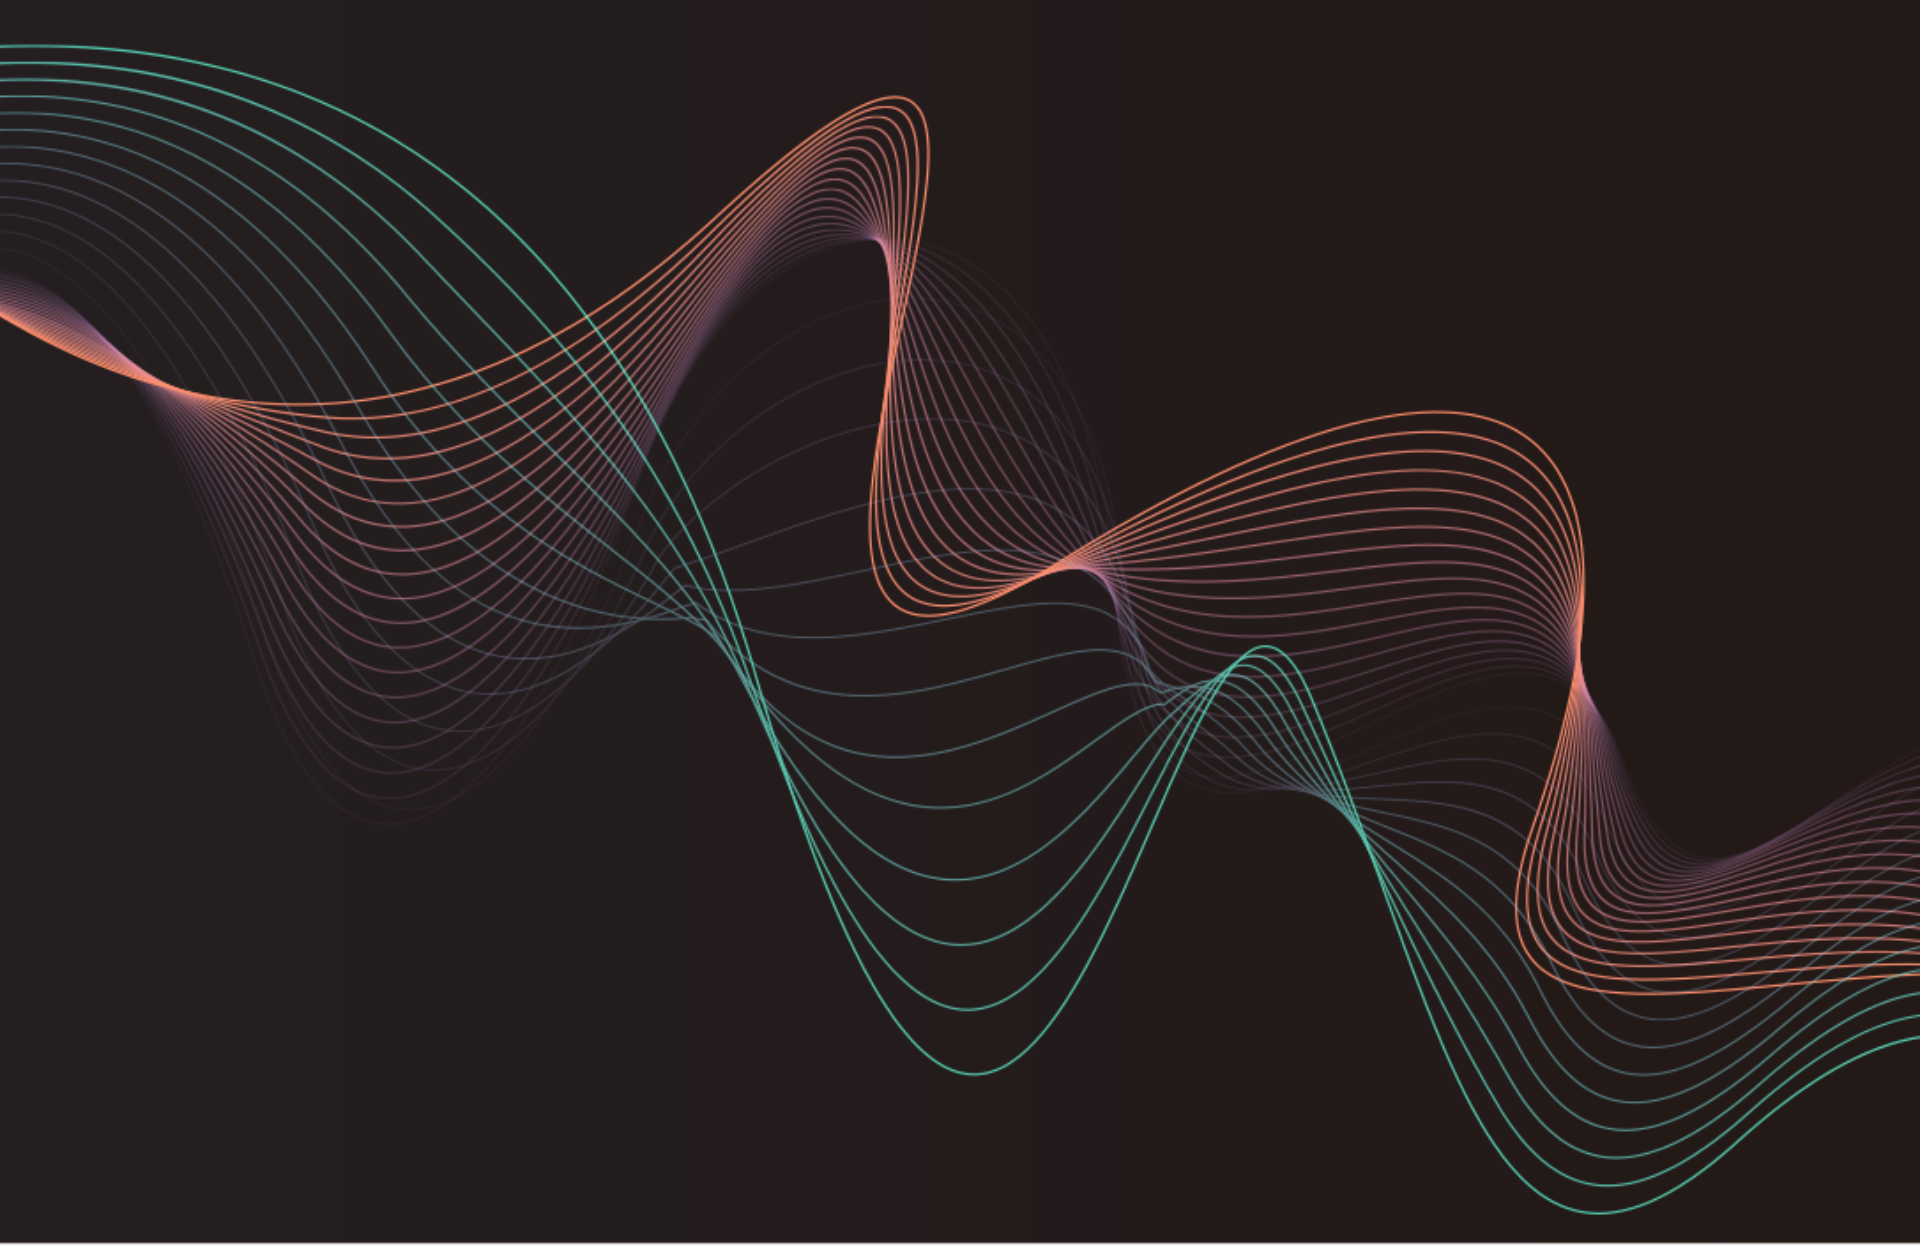
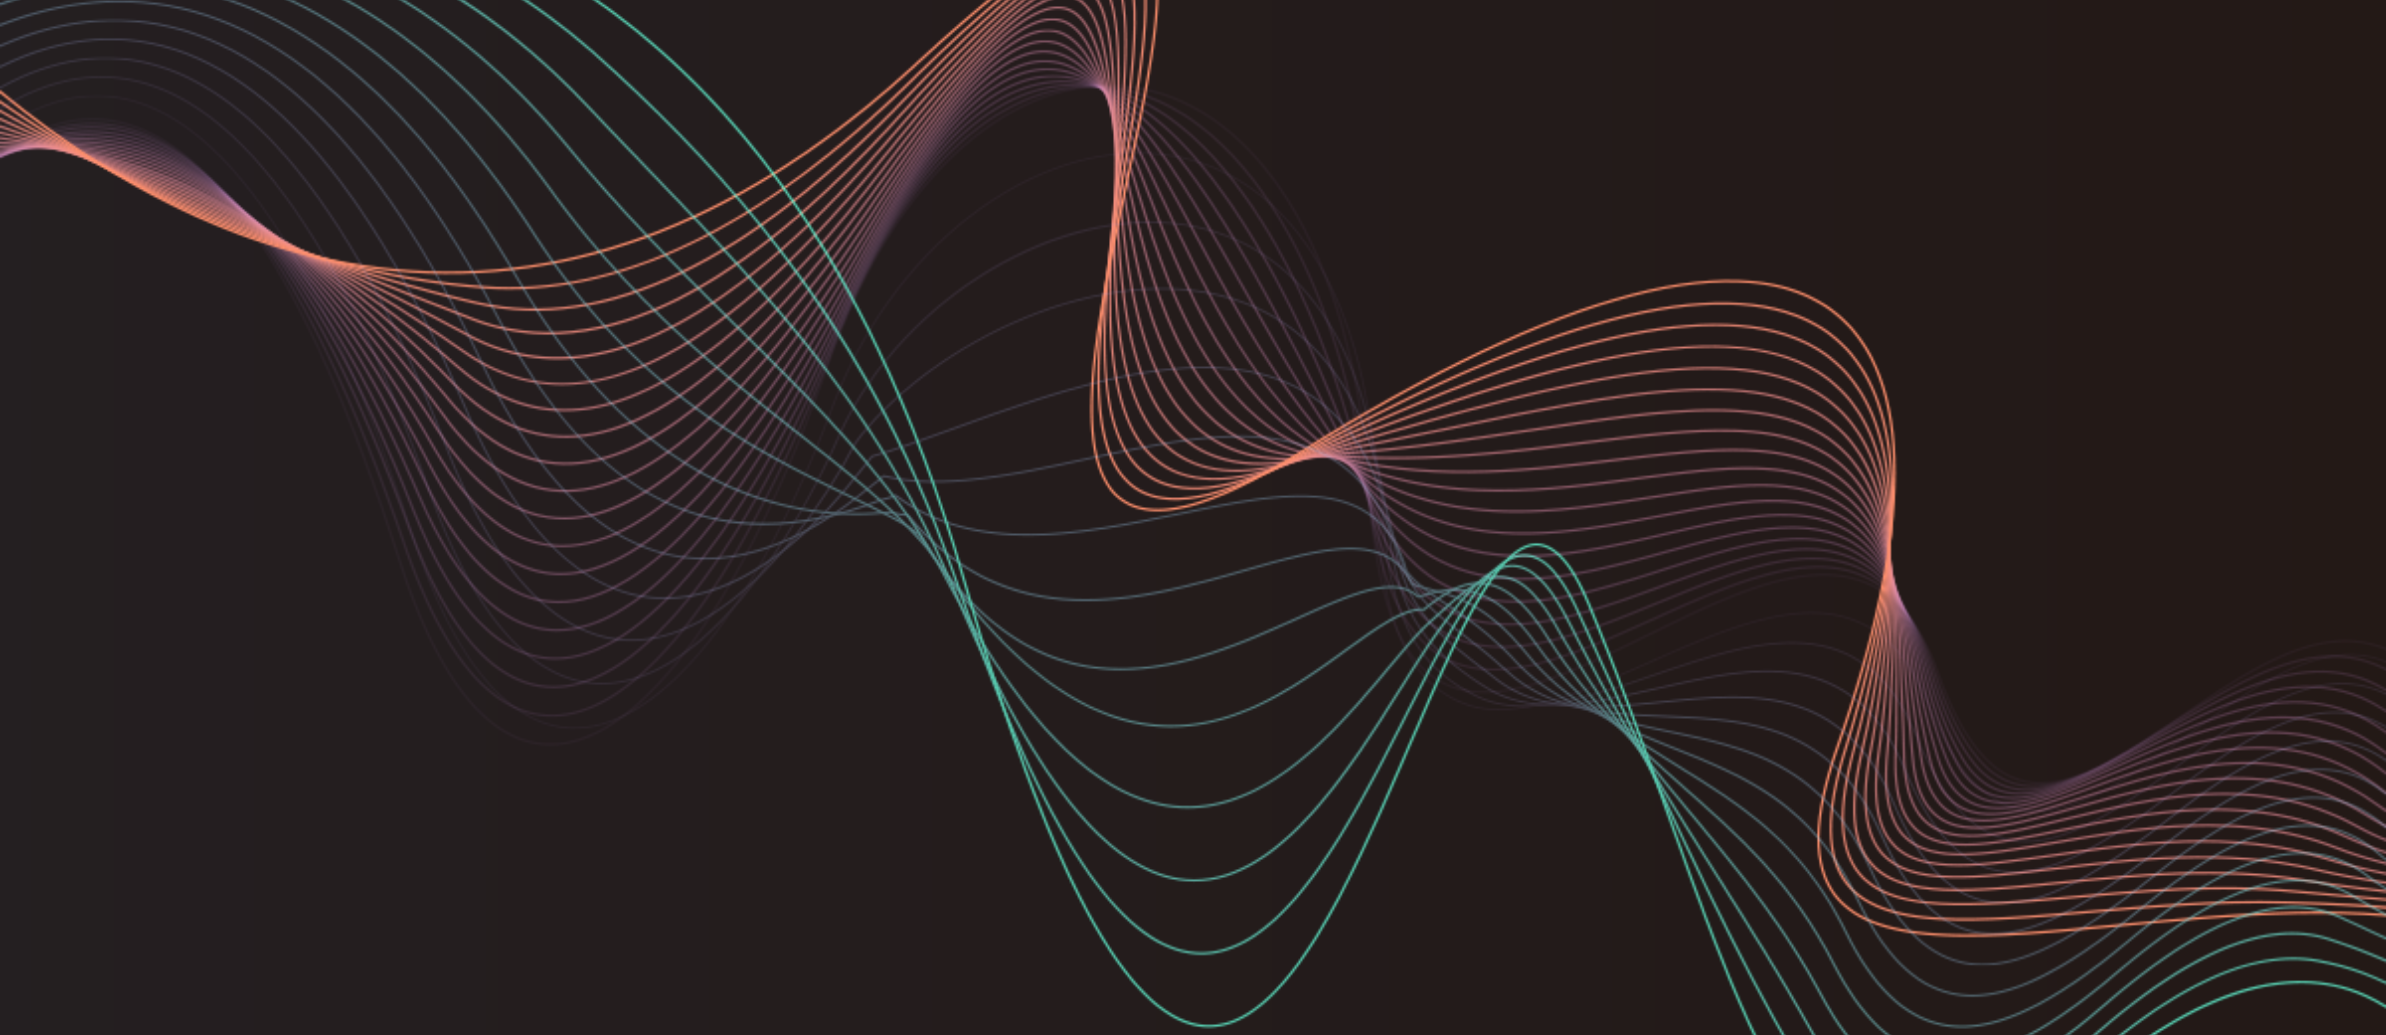
221124) eun 수정사항 반영

Changed region(s): [[0.0, 0.0, 1.0, 1.0], [0.4688, 0.8966, 0.5312, 0.9275]]

diff --git a/db_search_result.html b/db_search_result.html
@@ -87,29 +87,37 @@
                 <p class="s-title">• 기관소개</p>
                 <dl class="">
                   <dt>1. 사업개요</dt>
-                  <dd>
+                  <dd class="no-hipen">
                     장흥군버섯산업연구원은 버섯을 지역 핵심전략사업으로 육성하고 지역산업 혁신을 위하여 지식경제부
                     지자체연구소 육성사업을 통해 설립된 연구 재단입니다.
                   </dd>
+                </dl>
+                <dl>
                   <dt>2. 서비스</dt>
-                  <dd>- 국내 버섯산업을 미래 기능성 21세기 전략산업으로 육성</dd>
-                  <dd>- 국내외 버섯을 소재로 한 연구/개발의 중심축 역할 수행</dd>
-                  <dd>- 21세기의 생물공학 유전자 전쟁시대에 대비한 미래기술 확보</dd>
-                  <dd>- 지역전략산업 및 연고산업의 고부가가치화를 통한 지역 경제 활성화</dd>
-                  <dd>- 버섯산업을 고부가가치 산업으로 발전시키는 모델 제공</dd>
+                  <dd>국내 버섯산업을 미래 기능성 21세기 전략산업으로 육성</dd>
+                  <dd>국내외 버섯을 소재로 한 연구/개발의 중심축 역할 수행</dd>
+                  <dd>21세기의 생물공학 유전자 전쟁시대에 대비한 미래기술 확보</dd>
+                  <dd>지역전략산업 및 연고산업의 고부가가치화를 통한 지역 경제 활성화</dd>
+                  <dd>버섯산업을 고부가가치 산업으로 발전시키는 모델 제공</dd>
+                </dl>
+                <dl>
                   <dt>3. 인력양성</dt>
-                  <dd>- 농가 및 산업체 기술교육</dd>
-                  <dd>- 세미나 및 학술회의 개최</dd>
-                  <dd>- 산업체 인력의 재교육</dd>
+                  <dd>농가 및 산업체 기술교육</dd>
+                  <dd>세미나 및 학술회의 개최</dd>
+                  <dd>산업체 인력의 재교육</dd>
+                </dl>
+                <dl>
                   <dt>4. 실험분석</dt>
-                  <dd>- 진균류 버섯 재배 분석 <button class="btn small3 h30 wh btn-viewData">+ 자료보기</button></dd>
+                  <dd>진균류 버섯 재배 분석 <button class="btn small3 h30 wh btn-viewData">+ 자료보기</button></dd>
+                </dl>
+                <dl>
                   <dt>5. 산업분석</dt>
-                  <dd>
-                    - 진균류 버섯 시장 산업현황 <button class="btn small3 h30 wh btn-viewData">+ 자료보기</button>
-                  </dd>
+                  <dd>진균류 버섯 시장 산업현황 <button class="btn small3 h30 wh btn-viewData">+ 자료보기</button></dd>
+                </dl>
+                <dl>
                   <dt>6. 컨설팅</dt>
                   <dd>
-                    - 진균류 버섯 재배 방법 컨설팅 <button class="btn small3 h30 wh btn-viewData">+ 자료보기</button>
+                    진균류 버섯 재배 방법 컨설팅 <button class="btn small3 h30 wh btn-viewData">+ 자료보기</button>
                   </dd>
                 </dl>
               </div>
@@ -172,51 +180,33 @@
                 <p class="s-title">• R&D 현황</p>
                 <dl class="">
                   <dt>1. 시설 장비</dt>
-                  <dd>- 버섯 재배 및 연구에 사용되는 장비 50여개 보유</dd>
+                  <dd>버섯 재배 및 연구에 사용되는 장비 50여개 보유</dd>
+                </dl>
+                <dl>
                   <dt>2. 시설 장비활용 서비스</dt>
-                  <dd>- 과립제조기: 사료의 과립제조</dd>
-                  <dd>- 동결건조기(대형): 사료의 동결건조</dd>
-                  <dd>- 탁상용 원심 분리기: 원심분리</dd>
+                  <dd>과립제조기: 사료의 과립제조</dd>
+                  <dd>동결건조기(대형): 사료의 동결건조</dd>
+                  <dd>탁상용 원심 분리기: 원심분리</dd>
                 </dl>
               </div>
               <div class="introduce-text reference">
                 <p class="s-title">• 레퍼런스</p>
                 <dl class="">
                   <dt>1. R&D 실적</dt>
-                  <dd>
-                    - 표고버섯으로부터 비타민 D2를 습득하는 방법
-                    <button class="btn small3 h30 wh btn-viewData">+ 자료보기</button>
-                  </dd>
-                  <dd>
-                    - 석류 유산균 발효물을 이용한 건강식품 종성물과 제조방법
-                    <button class="btn small3 h30 wh btn-viewData">+ 자료보기</button>
-                  </dd>
+                  <dd>표고버섯으로부터 비타민 D2를 습득하는 방법 <a href="#n">[자료보기]</a></dd>
+                  <dd>석류 유산균 발효물을 이용한 건강식품 종성물과 제조방법 <a href="#n">[자료보기]</a></dd>
+                </dl>
+                <dl>
                   <dt>2. 연구성과</dt>
-                  <dd>
-                    - [MOU] 장흥지역 연구기관 업무협약
-                    <button class="btn small3 h30 wh btn-viewData">+ 자료보기</button>
-                  </dd>
-                  <dd>
-                    - [기술이전]-브라운힐 서비스표권, 상표권
-                    <button class="btn small3 h30 wh btn-viewData">+ 자료보기</button>
-                  </dd>
-                  <dd>
-                    - [수상]-제9회 아시아버섯학회 수상
-                    <button class="btn small3 h30 wh btn-viewData">+ 자료보기</button>
-                  </dd>
+                  <dd>[MOU] 장흥지역 연구기관 업무협약 <a href="#n">[자료보기]</a></dd>
+                  <dd>[기술이전]-브라운힐 서비스표권, 상표권 <a href="#n">[자료보기]</a></dd>
+                  <dd>[수상]-제9회 아시아버섯학회 수상 <a href="#n">[자료보기]</a></dd>
+                </dl>
+                <dl>
                   <dt>3. 기술이전</dt>
-                  <dd>
-                    - [MOU] 장흥지역 연구기관 업무협약
-                    <button class="btn small3 h30 wh btn-viewData">+ 자료보기</button>
-                  </dd>
-                  <dd>
-                    - [기술이전]-브라운힐 서비스표권, 상표권
-                    <button class="btn small3 h30 wh btn-viewData">+ 자료보기</button>
-                  </dd>
-                  <dd>
-                    - [수상]-제9회 아시아버섯학회 수상
-                    <button class="btn small3 h30 wh btn-viewData">+ 자료보기</button>
-                  </dd>
+                  <dd>[MOU] 장흥지역 연구기관 업무협약 <a href="#n">[자료보기]</a></dd>
+                  <dd>[기술이전]-브라운힐 서비스표권, 상표권 <a href="#n">[자료보기]</a></dd>
+                  <dd>[수상]-제9회 아시아버섯학회 수상 <a href="#n">[자료보기]</a></dd>
                 </dl>
               </div>
               <div class="introduce-text">
@@ -262,11 +252,10 @@
               </div>
               <div class="introduce-text">
                 <p class="s-title">
-                  • 주요 키워드 <span>키워드는 기관의 논문 또는 특허 등 검색 시 활용해 보세요.</span>
+                  • 주요 키워드 <span>( * 키워드는 기관의 논문 또는 특허 등 검색 시 활용해 보세요.)</span>
                 </p>
                 <dl class="">
-                  <dt></dt>
-                  <dd>- 버섯, 컨설팅, 논문, 공동연구, 시설지원</dd>
+                  <dd>버섯, 컨설팅, 논문, 공동연구, 시설지원</dd>
                 </dl>
               </div>
             </div>

diff --git a/css/contents.css b/css/contents.css
@@ -73,10 +73,14 @@
 .subVisual-container.sub-bg09:after {
   background: url("../images/sub/sub-visual09.png") no-repeat 50% 50%, #171717;
 }
+.subVisual-container.sub-bg15:after {
+  background: url("../images/sub/sub-visual15.png") no-repeat 50% 50%, #171717;
+  background-size: cover;
+}
 
 @keyframes ani-suvVisual {
   100% {
-    transform: translateX(-50%) scale(0.9) skew(0deg, 0deg);
+    transform: translateX(-60%) scale(0.9) skew(0deg, 0deg);
   }
 }
 
@@ -297,7 +301,7 @@
   font-weight: 500;
   color: #555;
   word-break: keep-all;
-  border-top: 1px solid #707070;
+  border-top: 1px solid #ccc;
 }
 .db_search_container dl > dd > .text-wrap p {
   font-size: 16px;
@@ -392,15 +396,15 @@
   box-sizing: border-box;
 }
 .left_resource_container .s-title {
-  padding: 0 0 7px;
+  padding: 0 0 10px;
   font-size: 18px;
   font-weight: 600;
 }
 .left_resource_container .s-title span {
   display: block;
-  font-size: 14px;
-  font-weight: 500;
-  color: #555;
+  font-size: 13px;
+  font-weight: 400;
+  color: #fd7e14;
 }
 .left_resource_container .introduce-agency {
   margin: 0 0 17px;
@@ -437,7 +441,7 @@
   color: #382205;
 }
 .left_resource_container .introduce-agency dl dd {
-  line-height: 23px;
+  line-height: 27px;
   font-size: 14px;
 }
 .left_resource_container .introduce-agency dl dd span {
@@ -446,31 +450,41 @@
 }
 
 .left_resource_container .introduce-text {
-  padding: 0 0 15px;
+  padding: 0 0 17px;
 }
 .left_resource_container .introduce-text dl {
-  margin: 0 0 10px;
+  margin: 0 0 7px 10px;
 }
 .left_resource_container .introduce-text dl dt {
-  padding: 12px 0 7px;
-  font-size: 17px;
+  padding: 0 0 3px;
+  font-size: 16px;
   font-weight: 500;
 }
 .left_resource_container .introduce-text dl dd {
   position: relative;
-  padding: 5px 0;
-  font-size: 15px;
+  line-height: 25px;
+  padding: 0 0 0 10px;
+  font-size: 14px;
   font-weight: 500;
   color: #555;
   word-break: keep-all;
 }
-.left_resource_container .introduce-text.reference dl dd {
-  padding-right: 70px;
+.left_resource_container .introduce-text dl dd::before {
+  position: absolute;
+  left: 0;
+  top: 0px;
+  content: "- ";
+}
+.left_resource_container .introduce-text dl dd.no-hipen::before {
+  content: "";
 }
 .left_resource_container .introduce-text dl dd .btn-viewData {
   position: absolute;
   right: 0;
   top: 0;
+}
+.left_resource_container .introduce-text dl dd a {
+  color: #1642b7;
 }
 .left_resource_container .introduce-text .common-table-wrapper .horizen {
   font-size: 10px;
@@ -607,6 +621,7 @@
   color: #524232;
 }
 .trend-container ul li .content {
+  line-height: 1.6;
   padding: 12px 0 20px;
   font-size: 16px;
   font-weight: 500;
@@ -656,7 +671,7 @@
 }
 .common-gallery-wrapper > ul > li > a .gallery-list .subject {
   padding: 0 0 12px;
-  font-size: 15px;
+  font-size: 16px;
   font-weight: 600;
   color: #171717;
 }
@@ -677,8 +692,8 @@
 #sub-login-container {
   position: relative;
   height: 713px;
-  background: url("../images/sub/login-bg.png") no-repeat 50% top, linear-gradient(to left, #231917, #241e20);
-  background-size: contain;
+  background: url("../images/sub/login-bg.png") no-repeat 50% 65%;
+  background-size: auto;
   border-top: 6px solid #000;
 }
 .login-wrapper {

diff --git a/css/layout.css b/css/layout.css
@@ -288,6 +288,7 @@
   line-height: 1.5;
   font-size: 19px;
   font-weight: 500;
+  word-break: keep-all;
 }
 
 #family-site .family-wrapper .FamilyStie-Swiper {
@@ -298,6 +299,7 @@
 }
 
 #family-site .family-wrapper .FamilyStie-Swiper .swiper-wrapper {
+  line-height: 57px;
   text-align: center;
 }
 
@@ -336,9 +338,6 @@
   background: #464542;
   border: 1px solid #707070;
   box-sizing: border-box;
-}
-#footer h2 img {
-  max-width: 80%;
 }
 #footer address {
   padding: 12px 0 3px;
@@ -444,6 +443,19 @@
 #layerPop-container .findID-wrapper {
   width: 389px;
   height: 320px;
+}
+#layerPop-container .findID-wrapper .inner {
+  padding: 0 58px;
+}
+#layerPop-container .findID-wrapper .inner .text {
+  line-height: 30px;
+  padding: 41px 0 38px;
+  font-size: 15px;
+  font-weight: 500;
+  text-align: center;
+}
+#layerPop-container .findID-wrapper .inner .text p {
+  font-size: 20px;
 }
 
 /*--------------------------------------------------------------

diff --git a/login.html b/login.html
@@ -176,8 +176,13 @@
           아이디 찾기
           <a href="#n" id="btn-layerPop-close"><img src="./images/icon/btn-layerPop-close.png" alt="" /></a>
         </div>
-        <div>
-          <div class="common-btn wide"><button class="br h46">확인</button></div>
+        <div class="inner">
+          <div class="text">
+            회원님의 아이디는
+            <p>abcdefg</p>
+            입니다.
+          </div>
+          <div class="common-btn wide"><button class="br h46 large">확인</button></div>
         </div>
       </div>
     </div>

diff --git a/css/resset.css b/css/resset.css
@@ -111,6 +111,18 @@ a:active {
   text-decoration: none;
 }
 
+button:link,
+button:visited {
+  color: #000;
+  text-decoration: none;
+}
+button:hover,
+button:focus,
+button:active {
+  color: #000;
+  text-decoration: none;
+}
+
 /*--------------------------------------------------------------
   기타설정
 --------------------------------------------------------------*/

diff --git a/db_search.html b/db_search.html
@@ -444,6 +444,8 @@
         makeDatePicker('#datepicker2', new Date());
 
         //DB Search Click Event
+        $('.db_search_container > dl > dt > a').parents('dl').children('dd').hide();
+        $('.db_search_container > dl > dt').addClass('down');
         $(".db_search_container dl dt").click(function () {
           $(this)
             .parent("dl")

diff --git a/product_info.html b/product_info.html
@@ -73,7 +73,7 @@
                 <dd><a href="#n">• 최신 신상품</a></dd>
               </dl>
             </div>
-            <div class="sub-right-contents bg">
+            <div class="sub-right-contents">
               <div class="product-info-wrap">
                 <!-- Sub Search -->
                 <div class="common-sub-search br">

diff --git a/community.html b/community.html
@@ -50,7 +50,7 @@
       <!-- //header -->
       <!-- sub body -->
       <section id="sub-body">
-        <div class="subVisual-container sub-bg04">
+        <div class="subVisual-container sub-bg15">
           <div class="subVisual-wrapper">
             <div>
               <h3 class="sub-title">진균류 버섯 DB플랫폼 커뮤니티</h3>
